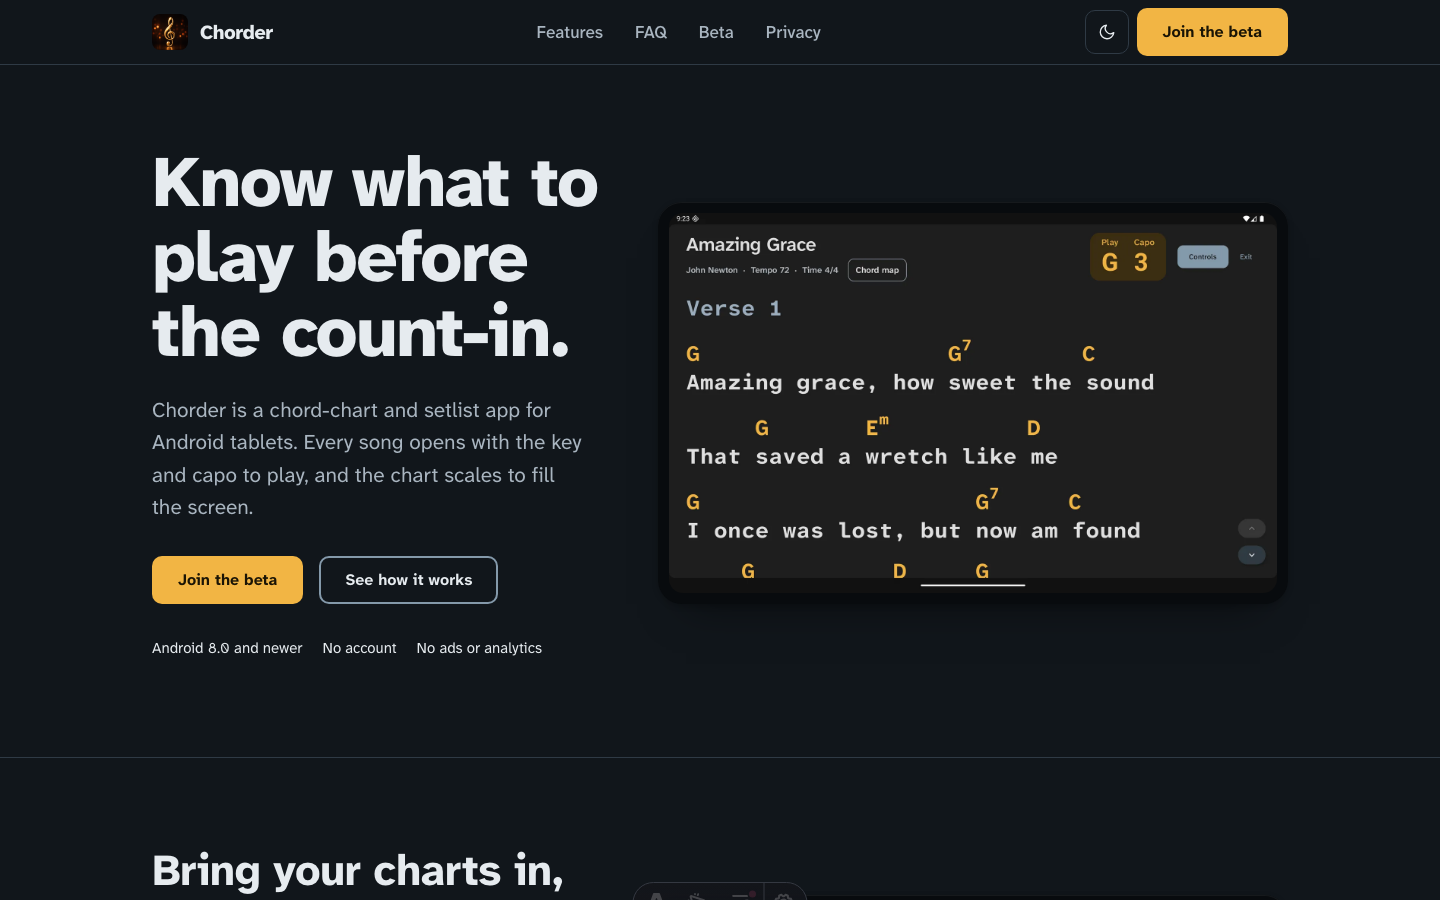
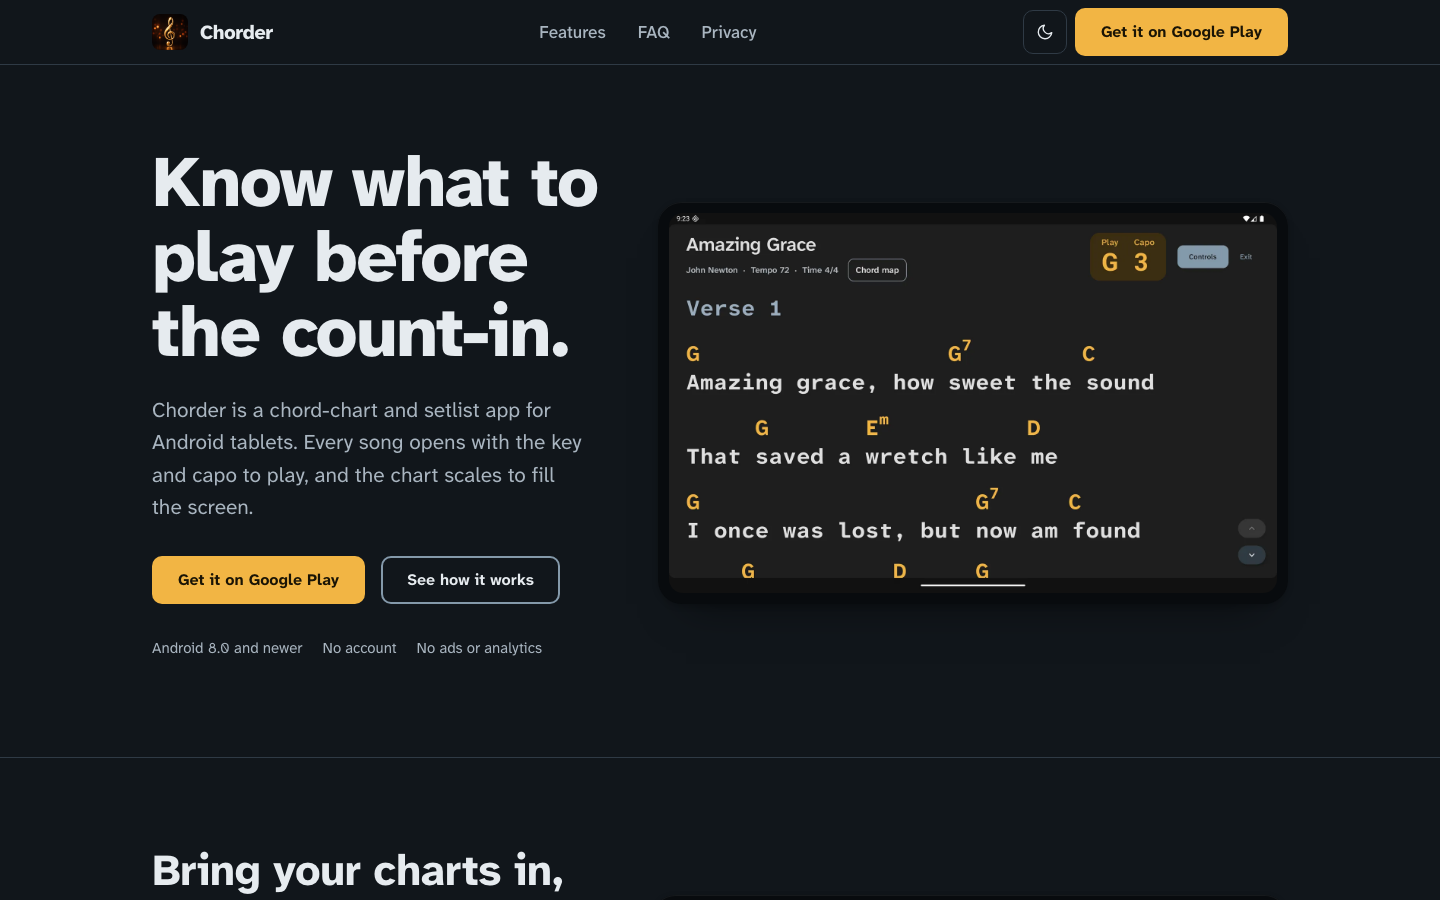
Go live: replace beta sign-up with Google Play download CTAs
Remove the Tally beta form, nav link and copy; set PLAY_LIVE=true; add a
download band with the Play badge; update FAQ, docs and hero screenshots.

diff --git a/src/lib/constants.ts b/src/lib/constants.ts
@@ -6,20 +6,9 @@ export const APP_SUBHEAD =
 export const PUBLISHER = 'Ezekiel Apps';
 export const SUPPORT_EMAIL = 'ezekielapps2026@gmail.com';
 
-/**
- * The Play Store listing is not live yet — leave PLAY_LIVE = false to render
- * the badge as a disabled / "coming soon" state. Flip to true once published.
- */
-export const PLAY_LIVE = false;
+/** Set PLAY_LIVE = false to render a disabled "coming soon" state instead of the Play links. */
+export const PLAY_LIVE = true;
 export const PLAY_URL = `https://play.google.com/store/apps/details?id=${APP_ID}&referrer=utm_source%3Dwebsite%26utm_medium%3Dlanding`;
-
-/**
- * Beta sign-up (Tally embedded form). Set BETA_SIGNUP_ACTIVE = false to hide
- * the section. TALLY_FORM_ID is the id from your Tally embed URL
- * (https://tally.so/embed/<id>).
- */
-export const BETA_SIGNUP_ACTIVE = true;
-export const TALLY_FORM_ID = 'obvNyN';
 
 export const SITE_DESCRIPTION =
   'Chorder is an Android tablet app for chord charts and setlists. Import PDFs or Planning Center charts, set the key and capo per song, switch to Nashville numbers, and play live with the key shown first. Your library stays on your device.';

diff --git a/src/content/faqs.ts b/src/content/faqs.ts
@@ -27,7 +27,7 @@ export const FAQS: FAQ[] = [
   },
   {
     q: 'How much does Chorder cost?',
-    a: 'Chorder is in beta and not yet listed on Google Play. Pricing will be announced before public launch.',
+    a: 'The Google Play listing shows the current price. Chorder has no account, advertising or analytics.',
   },
   {
     q: 'What about my privacy?',

diff --git a/PRODUCT.md b/PRODUCT.md
@@ -15,7 +15,7 @@ Web. A static marketing site (Astro, GitHub Pages) for an Android tablet app. De
 
 ## Product Purpose
 
-Chorder turns imported song charts into editable, key-aware charts and setlists, and plays them live with the key and capo to play shown first. The site's job is to get a visitor to join the beta (the Play listing is not live yet) by showing the real app and describing exactly what it does.
+Chorder turns imported song charts into editable, key-aware charts and setlists, and plays them live with the key and capo to play shown first. The site's job is to get a visitor to install Chorder from Google Play by showing the real app and describing exactly what it does.
 
 ## Positioning
 
@@ -23,7 +23,7 @@ A calm, capable, stage-ready tool. Not a generic "songbook" app and not a card-h
 
 ## Operating Context
 
-- Beta sign-up is an embedded Tally form; `PLAY_LIVE` is false until the Play listing exists.
+- The Play listing is live (`PLAY_LIVE = true`); the primary action is the Google Play link.
 - The app's v1.1.0 redesign (slate chrome, brass accent, Atkinson Hyperlegible) is the identity the site should echo without copying screens one for one.
 - Hosted at chorder.thekingdomofcode.com via GitHub Pages.
 
@@ -44,7 +44,7 @@ A calm, capable, stage-ready tool. Not a generic "songbook" app and not a card-h
 
 - Fresh 2560x1600 screenshots of the shipped UI in light and dark.
 - The app's README, PRODUCT.md and DESIGN.md.
-- The previous site's content and links (privacy page, support email, beta form).
+- The previous site's content and links (privacy page, support email).
 
 ## Product Principles
 

diff --git a/DESIGN.md b/DESIGN.md
@@ -114,7 +114,7 @@ Small, even radii: 8–10px for controls and tiles, 14px for the Play block, a f
 
 ## Components
 
-- **Button (`.btn`)**: 48px minimum height, 700 weight. `btn-brass` is the single primary action ("Join the beta"); `btn-quiet` is outlined; `btn-status` is the non-link "coming soon" state.
+- **Button (`.btn`)**: 48px minimum height, 700 weight. `btn-brass` is the single primary action ("Get it on Google Play"); `btn-quiet` is outlined; `btn-status` is the non-link fallback when `PLAY_LIVE` is false.
 - **Header**: sticky and solid with a hairline bottom border. Mobile menu is a non-modal disclosure panel that closes on Escape.
 - **Device (`.device`, `AppShot`)**: bezel, `srcset` of 800 and 1600 webp, light and dark variants swapped by CSS (`.shot-light`, `.shot-dark`), required `alt`. These classes live outside `@layer` so Tailwind does not purge them.
 - **Key flow tiles (`.key-tile`)**: HTML, `aria-hidden`, illustrating per-song keys in a setlist.

diff --git a/README.md b/README.md
@@ -59,7 +59,7 @@ python3 scripts/optimise-screenshots.py /path/to/chorder/ui-review
 
 ## Going live on Google Play
 
-Set `PLAY_LIVE` to `true` in `src/lib/constants.ts` when the listing is published. The "Join the beta" calls to action become the Google Play badge.
+`PLAY_LIVE` in `src/lib/constants.ts` is `true` now that the listing is published. The Get it on Google Play calls to action (header, hero, download band) are shown when it is `true`; otherwise a "Coming soon" state is shown.
 
 ## Deployment
 
